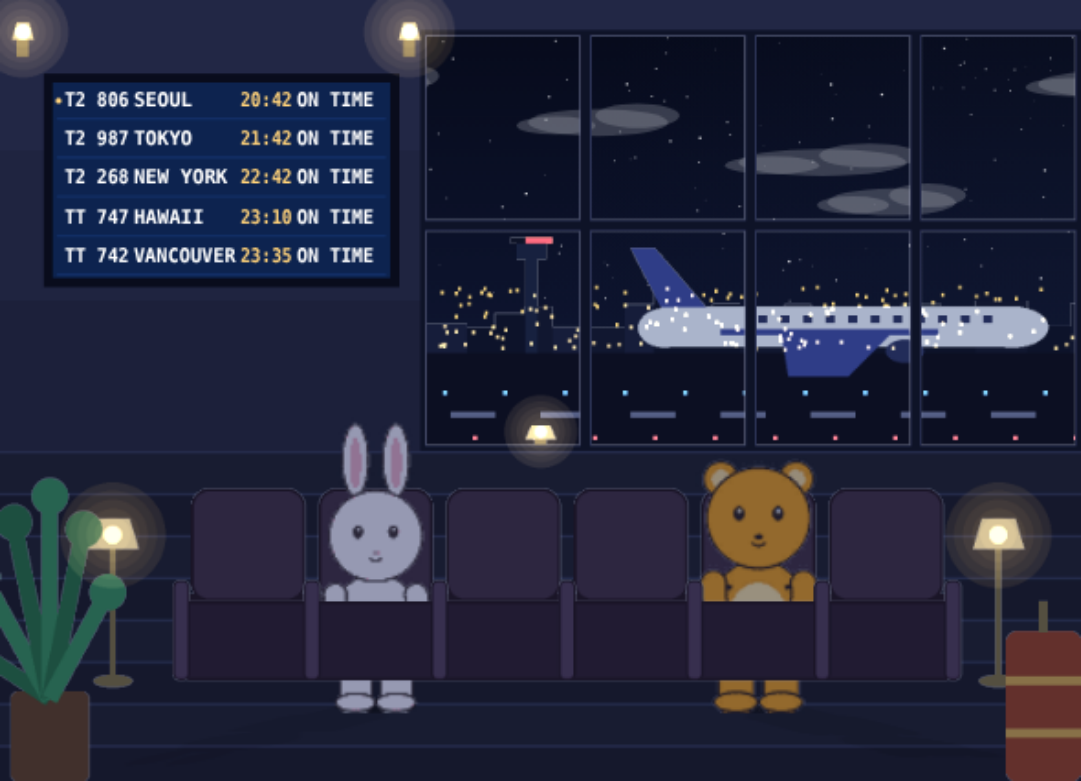
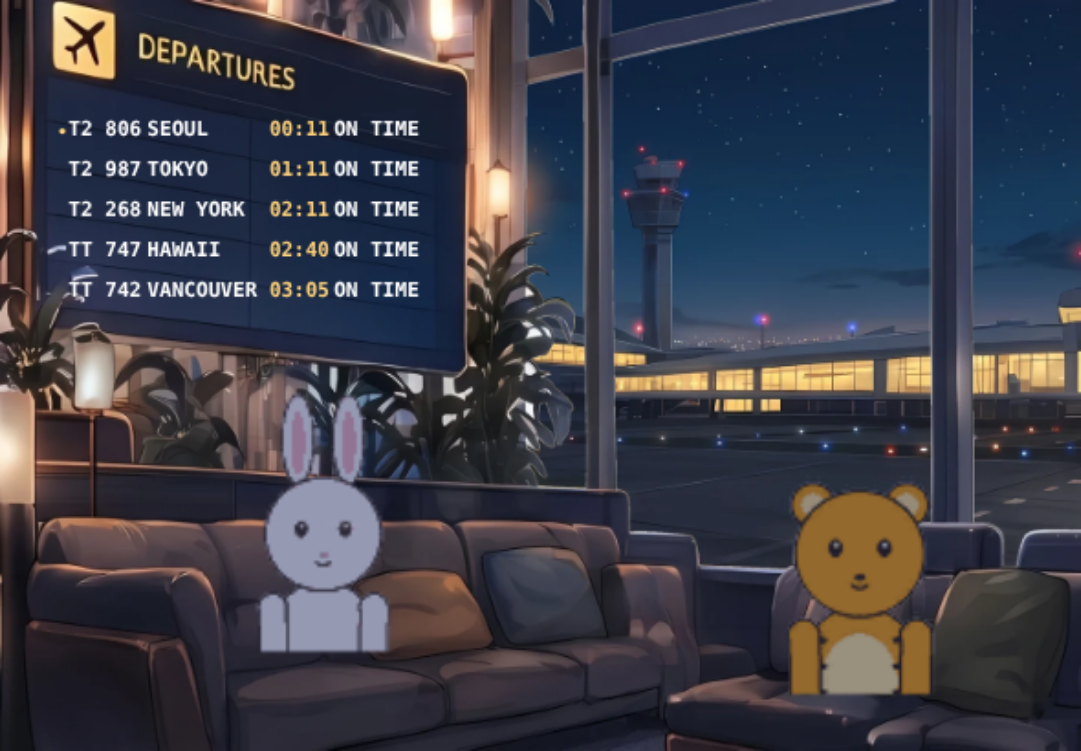
lounge: real background in the scene (night/golden/day, sofa front, seats)
art/tools/build_lounge_scene.py turns the aligned Gemini layers into scene
assets at 1440x1000 and rewrites scene.json: four seats on the two sofas with
their own foot lines, a six-row board, window rect, and a sofa-front layer cut
from each interior variant that hides seated characters' lower bodies.
Renderer: per-seat foot line with a glide while turning, scene-wide charScale,
optional floor light. Director snapshot reports the seat being approached or
left. Checker: height follows the art, seats may carry y, floorLight may be
null, layers cut from a checked layer skip the line-work test. Lobby scene box
uses the new aspect ratio. Screenshots in docs/lounge updated.

Claude-Session: https://claude.ai/code/session_012VFbGgDXK9mz8qoLwWp9w1

diff --git a/ui/web/lounge/renderer.js b/ui/web/lounge/renderer.js
@@ -246,6 +246,23 @@
       c.globalAlpha = 1;
     }
 
+    // Seated characters stand on their seat's own line (seat.y); walkers use baselineY. While turning
+    // toward or away from a seat the line slides between the two so nobody jumps.
+    function footY(e) {
+      const idx = Number.isInteger(e.spot) ? e.spot : e.seat;
+      const seat = idx >= 0 ? scene.seats[idx] : null;
+      const seatY = seat && Number.isFinite(seat.y) ? seat.y : scene.baselineY;
+      if (e.state === 'ENTERING' || e.state === 'EXITING' || !seat) return scene.baselineY;
+      if (e.state === 'TURN_IN' || e.state === 'TURN_OUT') {
+        const ch = chars.get(e.name), clip = ch && ch.manifest.clips[e.clip];
+        const n = clip ? clip.frames.length : 1, t = n > 1 ? e.frame / (n - 1) : 1;
+        const k = e.state === 'TURN_IN' ? t : 1 - t;
+        return scene.baselineY + (seatY - scene.baselineY) * k;
+      }
+      return seatY;
+    }
+    const charScale = Number.isFinite(scene.charScale) ? scene.charScale : 1;
+
     function atlasFrame(ch, clipId, frame) {
       const clip = ch.manifest.clips[clipId];
       if (!clip) return null;
@@ -291,7 +308,7 @@
       for (const e of list) {
         const ch = chars.get(e.name), af = ch && atlasFrame(ch, e.clip, e.frame);
         if (!af) continue;
-        const f = af.f, sc = ch.manifest.scale, fy = scene.baselineY;
+        const f = af.f, sc = ch.manifest.scale * charScale, fy = footY(e);
         // contact shadow
         c.save();
         c.globalAlpha = 0.30; c.fillStyle = '#000000';
@@ -315,13 +332,13 @@
     function drawChar(c, e, L) {
       const ch = chars.get(e.name), af = ch && atlasFrame(ch, e.clip, e.frame);
       if (!af) return;
-      const f = af.f, sc = ch.manifest.scale;
-      c.drawImage(tinted(ch, af.idx, f, L), e.x - f.ax * sc, scene.baselineY - f.ay * sc, f.w * sc, f.h * sc);
+      const f = af.f, sc = ch.manifest.scale * charScale, fy = footY(e);
+      c.drawImage(tinted(ch, af.idx, f, L), e.x - f.ax * sc, fy - f.ay * sc, f.w * sc, f.h * sc);
     }
 
     let floorTint = null, floorTintKey = '';
     function drawFloorLight(c, L, rel, h, direct) {
-      if (direct <= 0.01) return;
+      if (direct <= 0.01 || !assets.floorLight || !scene.floorLight) return;
       const key = L.sunColor;
       if (key !== floorTintKey) {
         const img = assets.floorLight;
@@ -348,18 +365,18 @@
       if (dbg.baseline) { c.strokeStyle = '#00ffd0'; c.beginPath(); c.moveTo(0, scene.baselineY); c.lineTo(W, scene.baselineY); c.stroke(); }
       if (dbg.seats) {
         c.strokeStyle = '#ffd000'; c.fillStyle = '#ffd000'; c.font = '20px monospace';
-        scene.seats.forEach((s, i) => { c.beginPath(); c.moveTo(s.x, scene.baselineY - 30); c.lineTo(s.x, scene.baselineY + 30); c.stroke(); c.fillText(s.id, s.x - 10, scene.baselineY + 54); });
+        scene.seats.forEach(s => { const y = Number.isFinite(s.y) ? s.y : scene.baselineY; c.beginPath(); c.moveTo(s.x, y - 30); c.lineTo(s.x, y + 30); c.stroke(); c.fillText(s.id, s.x - 10, y - 40); });
       }
       for (const e of list) {
         const ch = chars.get(e.name), af = ch && atlasFrame(ch, e.clip, e.frame);
         if (!af) continue;
-        const f = af.f, sc = ch.manifest.scale;
-        if (dbg.feet) { c.strokeStyle = '#ff3060'; c.beginPath(); c.arc(e.x, scene.baselineY, 7, 0, 6.2832); c.stroke(); }
-        if (dbg.frames) { c.strokeStyle = '#60a0ff'; c.strokeRect(e.x - f.ax * sc, scene.baselineY - f.ay * sc, f.w * sc, f.h * sc); }
+        const f = af.f, sc = ch.manifest.scale * charScale, fy = footY(e);
+        if (dbg.feet) { c.strokeStyle = '#ff3060'; c.beginPath(); c.arc(e.x, fy, 7, 0, 6.2832); c.stroke(); }
+        if (dbg.frames) { c.strokeStyle = '#60a0ff'; c.strokeRect(e.x - f.ax * sc, fy - f.ay * sc, f.w * sc, f.h * sc); }
         if (dbg.labels) {
           c.fillStyle = '#ffffff'; c.strokeStyle = '#000000'; c.font = '22px monospace';
           const txt = e.name + ' ' + e.clip + ' #' + e.frame + (e.lane === 'seat' ? ' [seat]' : '');
-          c.strokeText(txt, e.x - 90, scene.baselineY - f.ay * sc - 8); c.fillText(txt, e.x - 90, scene.baselineY - f.ay * sc - 8);
+          c.strokeText(txt, e.x - 90, fy - f.ay * sc - 8); c.fillText(txt, e.x - 90, fy - f.ay * sc - 8);
         }
       }
       c.restore();

diff --git a/ui/web/lobby.css b/ui/web/lobby.css
@@ -288,7 +288,7 @@ main{padding:0 12px calc(81px + env(safe-area-inset-bottom))}
 
 /* Lounge scene (docs/LOUNGE_SCENE_DESIGN.md). The canvas replaces the still illustration once its
    assets are ready; until then, and if anything fails, the still image shows. */
-.airport-scene{position:relative;width:calc(100% + 24px);margin:0 -12px 0;aspect-ratio:1440/1040;
+.airport-scene{position:relative;width:calc(100% + 24px);margin:0 -12px 0;aspect-ratio:1440/1000;
  overflow:hidden;background:var(--airport-surface-top,#112e39)}
 .lounge-fallback{position:absolute;inset:0;background:url("assets/t2-airport/lobby_hero_night.webp") center top/cover no-repeat}
 .lounge-canvas{position:absolute;inset:0;width:100%;height:100%;display:block;opacity:0;pointer-events:none}

diff --git a/ui/web/lounge/behavior.js b/ui/web/lounge/behavior.js
@@ -386,7 +386,8 @@
         else if (c.state === 'STAND_UP') lane = frame >= switchAt ? 'aisle' : 'seat';
         if (c.state !== 'ENTERING' && c.state !== 'EXITING') x = seats[c.seat].x;
         out.push({ name: c.name, clip: c.clip, frame, x, lane, mirrored: false, state: c.state,
-          activity: c.activity, seat: c.seat >= 0 && seatOwner[c.seat] === c ? scene.seats.indexOf(seats[c.seat]) : -1 });
+          activity: c.activity, seat: c.seat >= 0 && seatOwner[c.seat] === c ? scene.seats.indexOf(seats[c.seat]) : -1,
+          spot: c.seat >= 0 ? scene.seats.indexOf(seats[c.seat]) : -1 });   // seat it is heading to or leaving, even once released
       }
       return out;
     }

diff --git a/ui/web/lounge/assets.js b/ui/web/lounge/assets.js
@@ -37,7 +37,7 @@
         .map(async v => ({ elev: v.elev, img: await image(v.file) })));
       return { def, variants, emission: def.emission ? await image(def.emission) : null };
     }));
-    const floorLight = await image(scene.floorLight.file);
+    const floorLight = scene.floorLight ? await image(scene.floorLight.file) : null;
     const chars = [];
     await Promise.all((scene.characters || []).map(async (name, i) => {
       try {

diff --git a/ui/tools/lounge_check_assets.py b/ui/tools/lounge_check_assets.py
@@ -20,7 +20,7 @@ try:
 except ImportError:           # pragma: no cover - reported as an error below
     cv2 = None
 
-SCENE_SIZE = (1440, 1040)
+SCENE_WIDTH = 1440           # logical width; height follows the artwork (600..1400)
 REQUIRED_CLIPS = ['walk_r', 'walk_l', 'turn_r_front', 'turn_l_front', 'turn_front_r', 'turn_front_l',
                   'sit_down', 'stand_up', 'sit_idle']
 REQUIRED_POSES = ['walk_r', 'walk_l', 'stand_front', 'sit']
@@ -115,8 +115,13 @@ def check_scene(root, rep):
     scene = read_json(root / 'scene.json', rep, 'scene')
     if scene is None:
         return None
-    if scene.get('size') != list(SCENE_SIZE):
-        rep.err('schema', 'scene.json size must be %s' % list(SCENE_SIZE))
+    size = scene.get('size')
+    if not (isinstance(size, list) and len(size) == 2 and size[0] == SCENE_WIDTH and is_int(size[1]) and 600 <= size[1] <= 1400):
+        rep.err('schema', 'scene.json size must be [%d, height 600..1400]' % SCENE_WIDTH)
+        size = [SCENE_WIDTH, 1040]
+    scene_size = tuple(size)
+    if 'charScale' in scene and not (is_num(scene['charScale']) and scene['charScale'] > 0):
+        rep.err('schema', 'scene.json charScale must be a positive number')
     for key in ('baselineY', 'horizonY', 'windowFacing'):
         if not is_num(scene.get(key)):
             rep.err('schema', 'scene.json %s must be a number' % key)
@@ -126,13 +131,13 @@ def check_scene(root, rep):
             rep.err('schema', 'scene.json %s needs numeric %s' % (key, ', '.join(fields)))
     seats = scene.get('seats')
     if not isinstance(seats, list) or not seats or not all(
-            isinstance(s, dict) and isinstance(s.get('id'), str) and is_num(s.get('x')) for s in seats):
+            isinstance(s, dict) and isinstance(s.get('id'), str) and is_num(s.get('x')) and ('y' not in s or is_num(s['y'])) for s in seats):
         rep.err('schema', 'scene.json seats must be a non-empty list of {id, x}')
     elif len({s['id'] for s in seats}) != len(seats):
         rep.err('schema', 'scene.json seat ids must be unique')
     ent = scene.get('entries')
-    if not isinstance(ent, dict) or not (is_num(ent.get('left')) and is_num(ent.get('right')) and ent['left'] < 0 < SCENE_SIZE[0] < ent['right']):
-        rep.err('schema', 'scene.json entries must put left < 0 and right > %d' % SCENE_SIZE[0])
+    if not isinstance(ent, dict) or not (is_num(ent.get('left')) and is_num(ent.get('right')) and ent['left'] < 0 < scene_size[0] < ent['right']):
+        rep.err('schema', 'scene.json entries must put left < 0 and right > %d' % scene_size[0])
     chars = scene.get('characters')
     if not isinstance(chars, list) or not chars or not all(isinstance(n, str) for n in chars):
         rep.err('schema', 'scene.json characters must be a non-empty list of folder names')
@@ -144,7 +149,7 @@ def check_scene(root, rep):
     if not isinstance(lamps, list) or not all(isinstance(l, dict) and all(is_num(l.get(k)) for k in ('x', 'y', 'r')) for l in lamps):
         rep.err('schema', 'scene.json lamps must be a list of {x, y, r}')
 
-    def need_image(rel, what, size=SCENE_SIZE):
+    def need_image(rel, what, size=scene_size):
         arr = load_rgba(root / rel, rep)
         if arr is not None and size is not None and (arr.shape[1], arr.shape[0]) != tuple(size):
             rep.err('schema', '%s %s must be %dx%d, got %dx%d' % (what, rel, size[0], size[1], arr.shape[1], arr.shape[0]))
@@ -152,7 +157,9 @@ def check_scene(root, rep):
         return arr
 
     fl = scene.get('floorLight')
-    if not isinstance(fl, dict) or not isinstance(fl.get('file'), str) or not (
+    if fl is None:
+        pass                                          # no visible floor in this artwork
+    elif not isinstance(fl, dict) or not isinstance(fl.get('file'), str) or not (
             isinstance(fl.get('anchor'), list) and len(fl['anchor']) == 2 and all(is_num(v) for v in fl['anchor'])):
         rep.err('schema', 'scene.json floorLight needs file and anchor [x, y]')
     else:
@@ -189,17 +196,18 @@ def check_scene(root, rep):
         if lid == 'interior':
             w = scene.get('window') or {}
             for v, arr in loaded:
-                if arr is not None and isinstance(w.get('x'), (int, float)):
-                    cx = int(w['x'] + w['w'] * 0.15)
-                    cy = int(w['y'] + w['h'] * 0.25)
-                    if arr[cy, cx, 3] != 0:
-                        rep.err('schema', 'interior %s must be transparent where the window glass is (x=%d, y=%d)' % (v['file'], cx, cy))
+                if arr is not None and all(is_num(w.get(k)) for k in ('x', 'y', 'w', 'h')):
+                    win = arr[int(w['y']):int(w['y'] + w['h']), int(w['x']):int(w['x'] + w['w']), 3]
+                    if win.size and (win < 16).mean() < 0.3:
+                        rep.err('schema', 'interior %s must be transparent where the window glass is (only %.0f%% of the window area is)' % (v['file'], 100 * (win < 16).mean()))
         for (va, a), (vb, b) in zip(loaded, loaded[1:]):
             if a is None or b is None:
                 continue
             ai = iou(a[..., 3] > 127, b[..., 3] > 127)
             if ai < ALPHA_IOU_MIN:
                 rep.err('alignment', 'layer %s: alpha outlines of %s and %s differ (IoU %.3f < %.2f)' % (lid, va['file'], vb['file'], ai, ALPHA_IOU_MIN))
+            if layer.get('cutFrom'):
+                continue                              # cut with one mask from an already-checked layer
             if cv2 is None:
                 rep.err('env', 'opencv-python-headless is required for the edge alignment check')
             else:

diff --git a/art/tools/build_lounge_scene.py b/art/tools/build_lounge_scene.py
@@ -1,0 +1,86 @@
+#!/usr/bin/env python3
+"""Build the lounge scene assets from the aligned background layers in art/lounge_bg/.
+
+    python3 art/tools/build_lounge_scene.py [--out ui/web/lounge/assets]
+
+Writes bg/*.webp at the scene's logical size and rewrites scene.json (characters untouched).
+The sofa front (what hides a seated character's lower body) is cut from each interior variant
+with the polygon below, measured on the 1440 x 1000 scene.
+"""
+import argparse
+import json
+from pathlib import Path
+
+import numpy as np
+from PIL import Image, ImageDraw, ImageFilter
+
+SRC = Path(__file__).resolve().parent.parent / 'lounge_bg'
+W, H = 1440, 1000
+VARIANTS = [('night', -10), ('golden', 2), ('day', 14)]       # lighting stage -> sun elevation anchor
+
+# Everything in front of a seated character: armrests and the front of the seat cushions.
+SOFA_FRONT = [
+    [(0, 770), (300, 770), (300, 868), (870, 868), (870, 1000), (0, 1000)],                 # left sofa
+    [(870, 835), (1050, 835), (1050, 925), (1440, 925), (1440, 1000), (870, 1000)],        # right sofa
+]
+
+SCENE = {
+    'placeholder': False,
+    'size': [W, H],
+    'baselineY': 1070,             # walkers pass in front, feet below the frame
+    'horizonY': 560,
+    'windowFacing': 225,
+    'charScale': 1.25,
+    'characters': ['tiger', 'rabbit', 'turtle', 'penguin'],
+    'window': {'x': 700, 'y': 0, 'w': 740, 'h': 700},
+    'board': {'x': 75, 'y': 150, 'w': 510, 'h': 320, 'rows': 6},
+    'seats': [{'id': 's0', 'x': 430, 'y': 995}, {'id': 's1', 'x': 665, 'y': 995},
+              {'id': 's2', 'x': 1145, 'y': 1050}, {'id': 's3', 'x': 1335, 'y': 1050}],
+    'entries': {'left': -320, 'right': 1760},
+    'lamps': [{'x': 120, 'y': 700, 'r': 520}, {'x': 660, 'y': 660, 'r': 460}],
+    'floorLight': None,
+}
+
+
+def mask_image():
+    m = Image.new('L', (W, H), 0)
+    d = ImageDraw.Draw(m)
+    for poly in SOFA_FRONT:
+        d.polygon(poly, fill=255)
+    return m.filter(ImageFilter.GaussianBlur(1.5))
+
+
+def main(argv=None):
+    ap = argparse.ArgumentParser(description=__doc__.split('\n')[0])
+    ap.add_argument('--out', default='ui/web/lounge/assets')
+    out = Path(ap.parse_args(argv).out)
+    bg = out / 'bg'
+    bg.mkdir(parents=True, exist_ok=True)
+    for old in bg.iterdir():
+        old.unlink()
+    front = mask_image()
+    layers = {'outside': [], 'interior': [], 'sofaFront': []}
+    for name, elev in VARIANTS:
+        for kind in ('outside', 'interior'):
+            im = Image.open(SRC / ('%s_%s.webp' % (kind, name))).convert('RGBA').resize((W, H), Image.LANCZOS)
+            im.save(bg / ('%s_%s.webp' % (kind, name)), 'WEBP', quality=88, method=6)
+            layers[kind].append({'elev': elev, 'file': 'bg/%s_%s.webp' % (kind, name)})
+            if kind == 'interior':
+                sofa = im.copy()
+                a = np.minimum(np.asarray(sofa.getchannel('A')), np.asarray(front))
+                sofa.putalpha(Image.fromarray(a))
+                sofa.save(bg / ('sofa_front_%s.webp' % name), 'WEBP', quality=88, method=6)
+                layers['sofaFront'].append({'elev': elev, 'file': 'bg/sofa_front_%s.webp' % name})
+    scene = dict(SCENE)
+    scene['layers'] = [
+        {'id': 'outside', 'group': 'back', 'tint': False, 'variants': layers['outside']},
+        {'id': 'interior', 'group': 'back', 'tint': False, 'variants': layers['interior']},
+        {'id': 'sofaFront', 'group': 'mid', 'tint': False, 'cutFrom': 'interior', 'variants': layers['sofaFront']},
+    ]
+    (out / 'scene.json').write_text(json.dumps(scene, indent=1, ensure_ascii=False) + '\n', encoding='utf-8')
+    total = sum(p.stat().st_size for p in bg.iterdir())
+    print('wrote %d background files, %d KB' % (len(list(bg.iterdir())), total // 1024))
+
+
+if __name__ == '__main__':
+    main()

diff --git a/docs/LOUNGE_SCENE_DESIGN.md b/docs/LOUNGE_SCENE_DESIGN.md
@@ -19,6 +19,16 @@
 
 ---
 
+## 실제 배경 연결 (2026-10-16 추가)
+
+- 배경은 Gemini 그림을 정리한 `art/lounge_bg/`(밤·노을·낮, 실내와 창밖 분리)를 `art/tools/build_lounge_scene.py`로 변환해 `ui/web/lounge/assets/bg/`에 넣는다. 이 도구가 `scene.json`도 다시 쓴다(캐릭터는 그대로).
+- 장면 크기는 **1440×1000**(그림 비율)이다. 3장의 좌표는 이 그림 기준으로 바뀌었다: 좌석 4개(왼쪽 소파 2, 오른쪽 소파 2), 안내판 6줄, 창문 x 700~1440.
+- 계약에 추가된 항목: `size`의 높이는 그림에 따름(600~1400), `charScale`(캐릭터 전체 배율), 좌석별 발 기준선 `seats[].y`(걷는 캐릭터는 `baselineY`, 돌아서는 동안 둘 사이를 미끄러지듯 이동), `floorLight: null` 허용(바닥이 안 보이는 구도), 레이어의 `cutFrom`(다른 레이어에서 같은 마스크로 잘라 낸 레이어. 선화 일치 검사를 생략).
+- 소파 앞면(`sofaFront`, mid 그룹)은 실내 그림에서 다각형 마스크로 잘라 낸 것으로, 앉은 캐릭터의 하반신을 가린다.
+- 하늘은 그림에 칠해진 하늘을 쓴다(창밖 레이어가 불투명). 코드 하늘·해·달은 그 뒤에 가려진다. 계절·비행기 레이어는 아직 없다.
+
+---
+
 ## 0. 목표와 범위
 
 **최종 목표**
